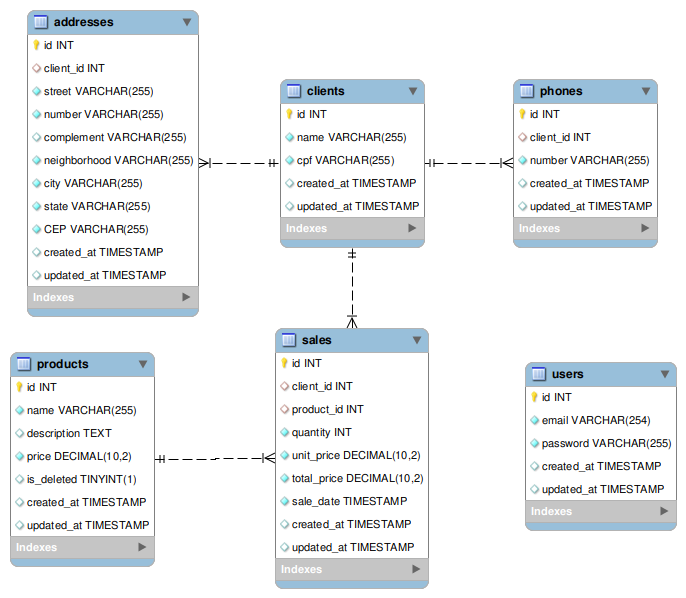
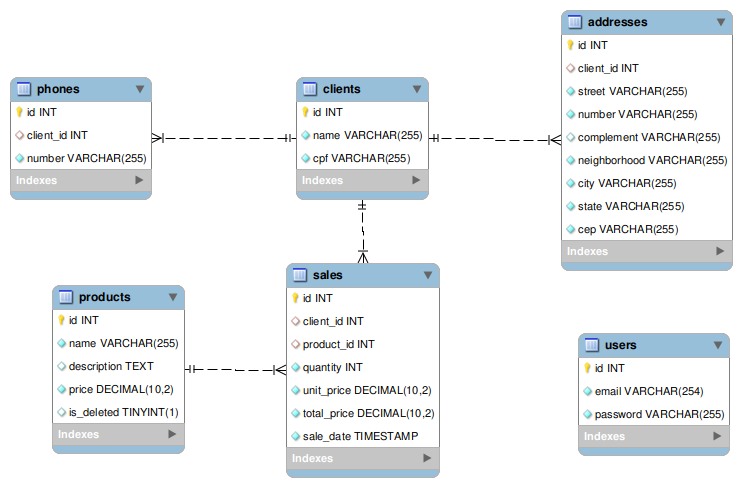
fix: ReadMe and fix errors

diff --git a/app/models/user.ts b/app/models/user.ts
@@ -1,4 +1,3 @@
-import { DateTime } from 'luxon'
 import hash from '@adonisjs/core/services/hash'
 import { compose } from '@adonisjs/core/helpers'
 import { BaseModel, column } from '@adonisjs/lucid/orm'
@@ -22,12 +21,6 @@ export default class User extends compose(BaseModel, AuthFinder) {
 
   @column({ serializeAs: null })
   declare password: string
-
-  @column.dateTime({ autoCreate: true })
-  declare createdAt: DateTime
-
-  @column.dateTime({ autoCreate: true, autoUpdate: true })
-  declare updatedAt: DateTime | null
 
   static accessTokens = DbAccessTokensProvider.forModel(User)
 }

diff --git a/app/models/address.ts b/app/models/address.ts
@@ -1,4 +1,3 @@
-import { DateTime } from 'luxon'
 import { BaseModel, column, belongsTo } from '@adonisjs/lucid/orm'
 import type { BelongsTo } from '@adonisjs/lucid/types/relations'
 import Client from './client.js'
@@ -33,10 +32,4 @@ export default class Address extends BaseModel {
 
   @belongsTo(() => Client)
   declare client: BelongsTo<typeof Client>
-
-  @column.dateTime({ autoCreate: true })
-  declare createdAt: DateTime
-
-  @column.dateTime({ autoCreate: true, autoUpdate: true })
-  declare updatedAt: DateTime
 }

diff --git a/app/models/phone.ts b/app/models/phone.ts
@@ -1,4 +1,3 @@
-import { DateTime } from 'luxon'
 import { BaseModel, column, belongsTo } from '@adonisjs/lucid/orm'
 import type { BelongsTo } from '@adonisjs/lucid/types/relations'
 import Client from './client.js'
@@ -15,10 +14,4 @@ export default class Phone extends BaseModel {
 
   @belongsTo(() => Client)
   declare client: BelongsTo<typeof Client>
-
-  @column.dateTime({ autoCreate: true })
-  declare createdAt: DateTime
-
-  @column.dateTime({ autoCreate: true, autoUpdate: true })
-  declare updatedAt: DateTime
 }

diff --git a/app/models/client.ts b/app/models/client.ts
@@ -1,4 +1,3 @@
-import { DateTime } from 'luxon'
 import type { HasMany } from '@adonisjs/lucid/types/relations'
 import { BaseModel, column, hasMany } from '@adonisjs/lucid/orm'
 import Address from './address.js'
@@ -23,10 +22,4 @@ export default class Client extends BaseModel {
 
   @hasMany(() => Sale)
   declare sales: HasMany<typeof Sale>
-
-  @column.dateTime({ autoCreate: true })
-  declare createdAt: DateTime
-
-  @column.dateTime({ autoCreate: true, autoUpdate: true })
-  declare updatedAt: DateTime
 }

diff --git a/app/models/product.ts b/app/models/product.ts
@@ -1,4 +1,3 @@
-import { DateTime } from 'luxon'
 import { BaseModel, column } from '@adonisjs/lucid/orm'
 
 export default class Product extends BaseModel {
@@ -16,10 +15,4 @@ export default class Product extends BaseModel {
 
   @column()
   declare is_deleted: boolean
-
-  @column.dateTime({ autoCreate: true })
-  declare createdAt: DateTime
-
-  @column.dateTime({ autoCreate: true, autoUpdate: true })
-  declare updatedAt: DateTime
 }

diff --git a/database/migrations/1722790754990_create_phones_table.ts b/database/migrations/1722790754990_create_phones_table.ts
@@ -8,8 +8,6 @@ export default class extends BaseSchema {
       table.increments('id')
       table.integer('client_id').unsigned().references('id').inTable('clients').onDelete('CASCADE')
       table.string('number').notNullable()
-      table.timestamp('created_at')
-      table.timestamp('updated_at')
     })
   }
 

diff --git a/app/models/sale.ts b/app/models/sale.ts
@@ -31,10 +31,4 @@ export default class Sale extends BaseModel {
 
   @belongsTo(() => Product)
   declare product: BelongsTo<typeof Product>
-
-  @column.dateTime({ autoCreate: true })
-  declare createdAt: DateTime
-
-  @column.dateTime({ autoCreate: true, autoUpdate: true })
-  declare updatedAt: DateTime
 }

diff --git a/database/migrations/1722791049984_create_sales_table.ts b/database/migrations/1722791049984_create_sales_table.ts
@@ -12,8 +12,6 @@ export default class extends BaseSchema {
       table.decimal('unit_price', 10, 2).notNullable()
       table.decimal('total_price', 10, 2).notNullable()
       table.timestamp('sale_date').notNullable()
-      table.timestamp('created_at')
-      table.timestamp('updated_at')
     })
   }
 

diff --git a/database/migrations/1722790937349_create_products_table.ts b/database/migrations/1722790937349_create_products_table.ts
@@ -10,8 +10,6 @@ export default class extends BaseSchema {
       table.text('description')
       table.decimal('price', 10, 2).notNullable()
       table.boolean('is_deleted').defaultTo(false)
-      table.timestamp('created_at')
-      table.timestamp('updated_at')
     })
   }
 

diff --git a/database/migrations/1722777077021_create_users_table.ts b/database/migrations/1722777077021_create_users_table.ts
@@ -8,9 +8,6 @@ export default class extends BaseSchema {
       table.increments('id')
       table.string('email', 254).notNullable().unique()
       table.string('password').notNullable()
-
-      table.timestamp('created_at')
-      table.timestamp('updated_at')
     })
   }
 

diff --git a/database/migrations/1722784742690_create_addresses_table.ts b/database/migrations/1722784742690_create_addresses_table.ts
@@ -14,8 +14,6 @@ export default class extends BaseSchema {
       table.string('city').notNullable()
       table.string('state').notNullable()
       table.string('cep').notNullable()
-      table.timestamp('created_at')
-      table.timestamp('updated_at')
     })
   }
 

diff --git a/database/migrations/1722782824912_create_clients_table.ts b/database/migrations/1722782824912_create_clients_table.ts
@@ -8,8 +8,6 @@ export default class extends BaseSchema {
       table.increments('id')
       table.string('name').notNullable()
       table.string('cpf').notNullable().unique()
-      table.timestamp('created_at')
-      table.timestamp('updated_at')
     })
   }
 
